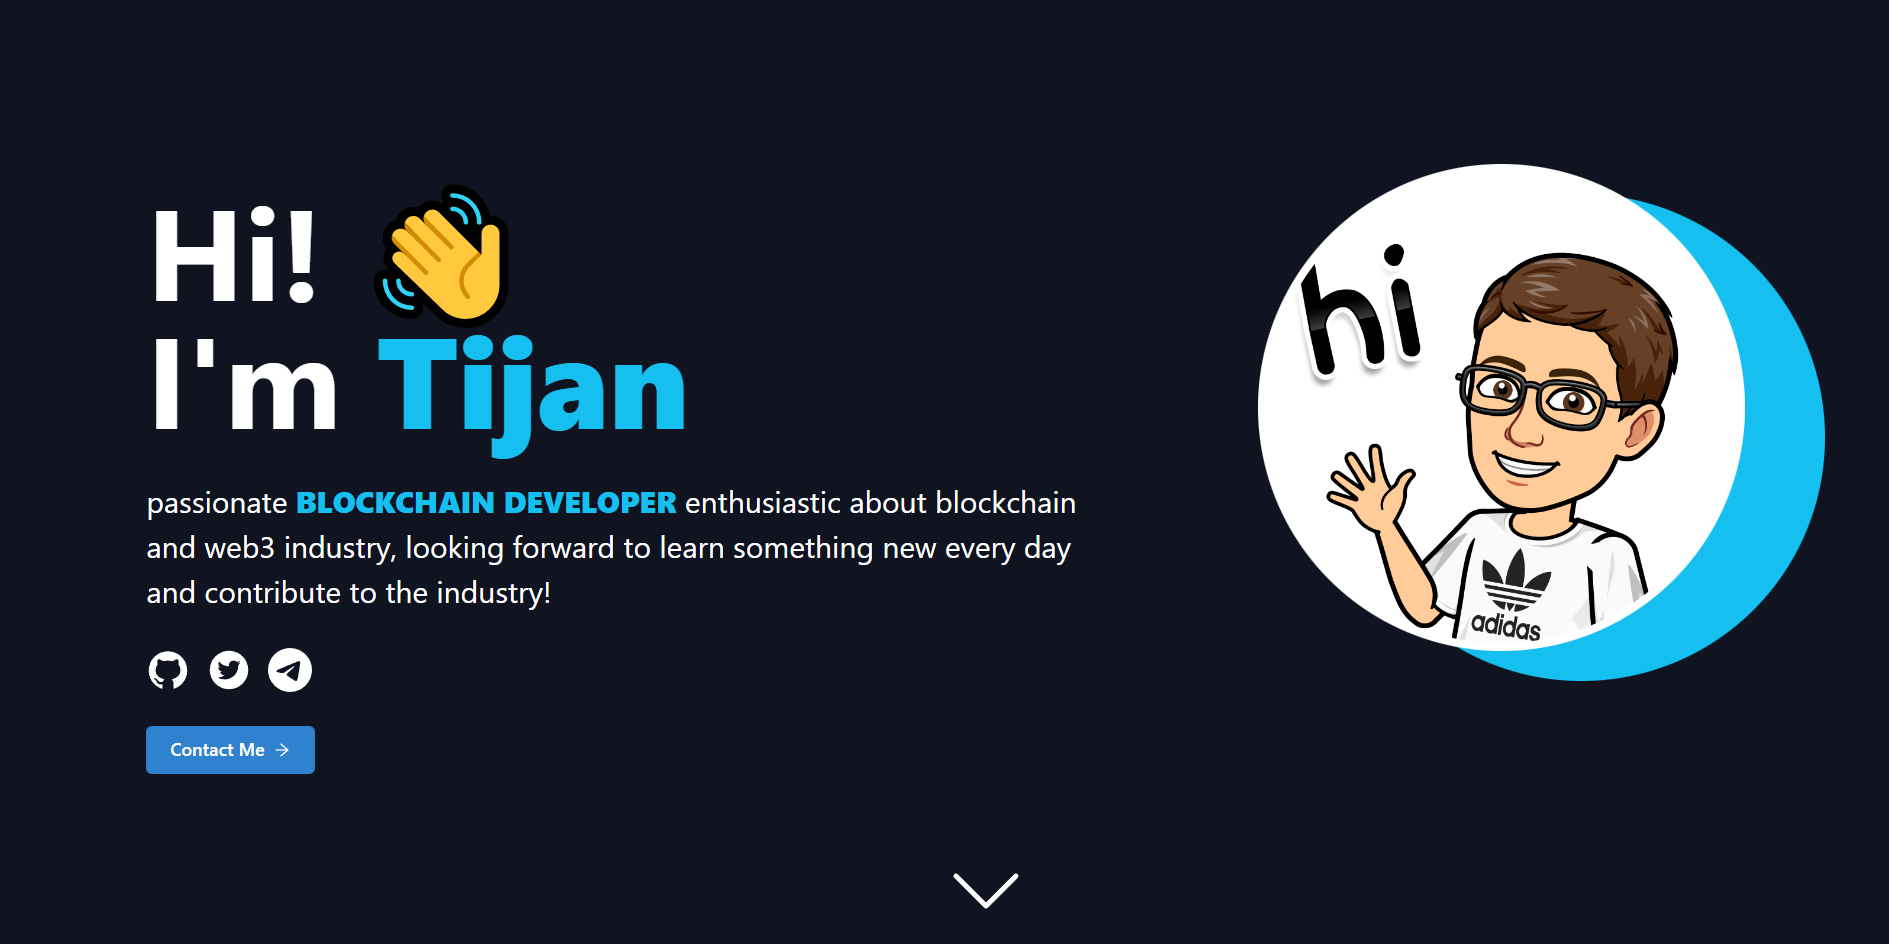
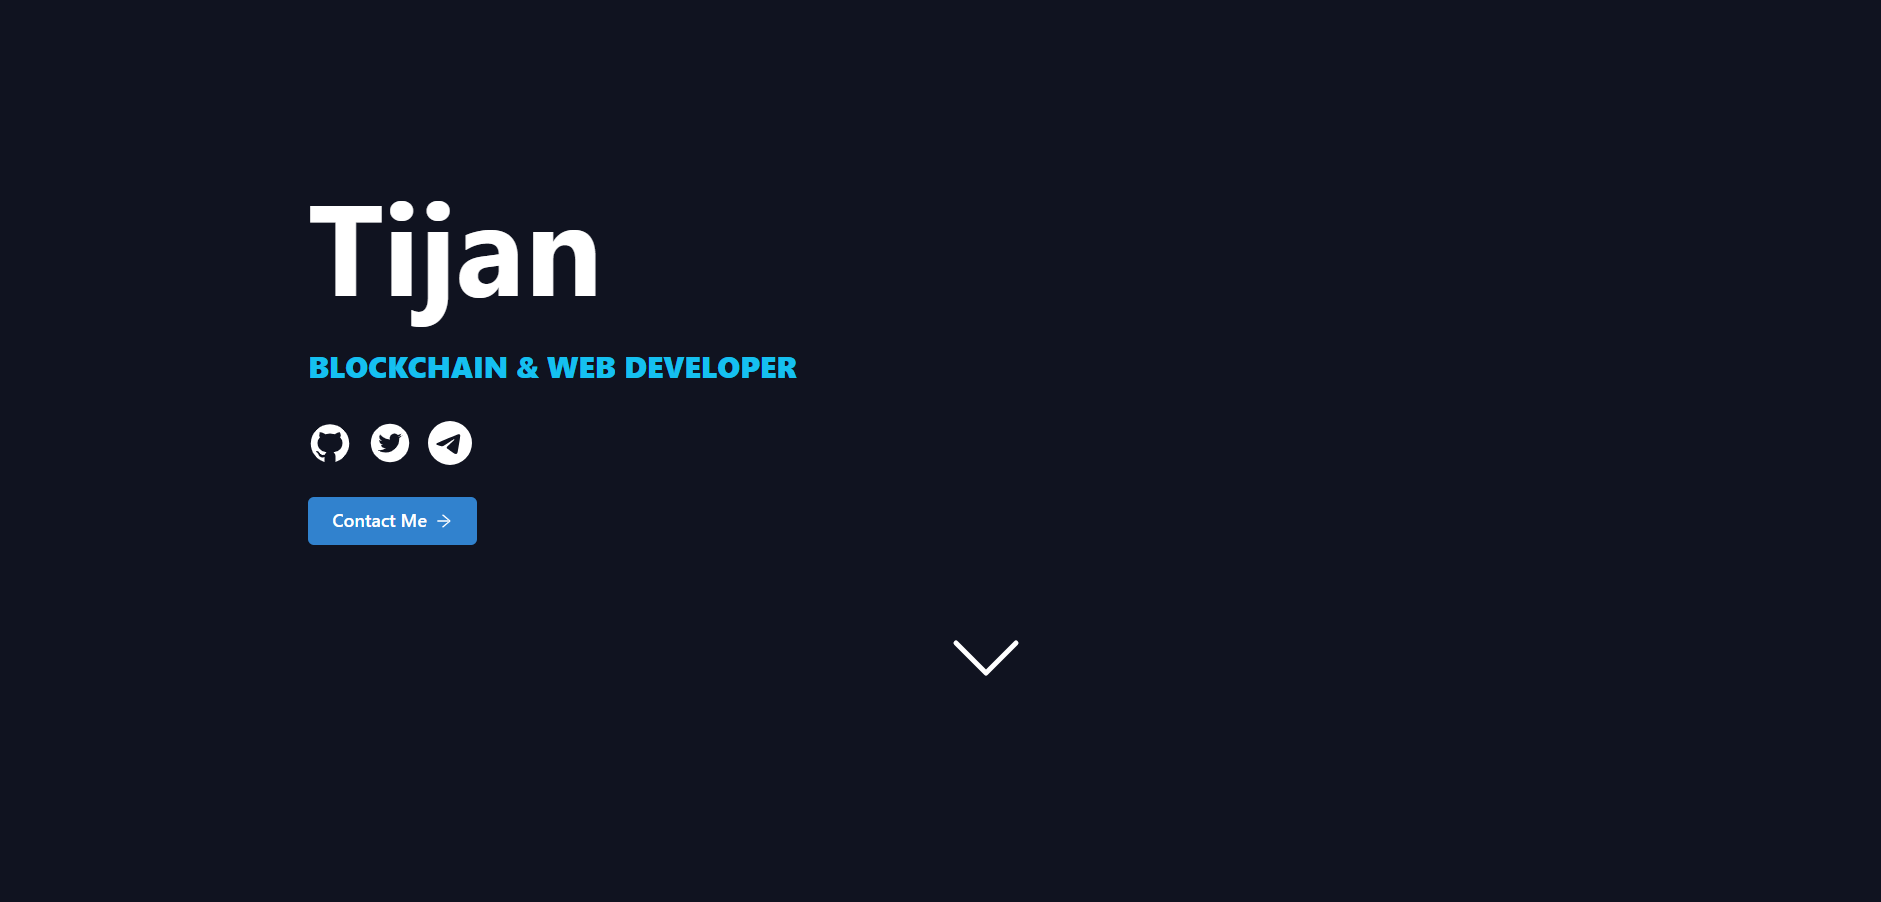
removed some things

diff --git a/src/components/about/About.tsx b/src/components/about/About.tsx
@@ -43,20 +43,18 @@ const About = () => {
 
   return(
     <>
-      <Alert />
       <div className="bg">
         <div className="about-wrapper">
           <div className="about-text">
             <div className="about-title">
               <Heading as='h1' fontSize={getFontSize()} size='4xl'>
-                Hi! 👋
-              </Heading>
-              <Heading as='h1' fontSize={getFontSize()} size='4xl'>
-                I&apos;m <span className="name">Tijan</span>
+                Tijan
               </Heading>
             </div>
             <div className="about-text-desc">
-              <Text fontSize='3xl'>skilled <span className="name">BLOCKCHAIN DEVELOPER</span> from Slovenia with +3 years of experience in blockchain development, enthusiastic about blockchain and web3 industry, constantly seeking opportunities for continuous learning and growth.</Text>
+              <Text fontSize='3xl'>
+                <span className="name">BLOCKCHAIN & WEB DEVELOPER</span>
+              </Text>
             </div>
 
             <div className="icons">
@@ -78,7 +76,6 @@ const About = () => {
             </a>
           </div>
           <div className="about-avatar">
-            <img src={avatar} className="avatar" alt="Tijan Bitmoji" />
           </div>
         </div>
         <div className="icon-wrapper">

diff --git a/src/components/contact/Contact.tsx b/src/components/contact/Contact.tsx
@@ -17,12 +17,12 @@ export type Contact = {
 }
 
 export const contacts: Contact[] = [
-  {
+  /*{
     name: "EMAIL:",
     info: "contactme@tijan.dev",
     icon: <MdOutlineEmail className="contact-icon" />,
     url: "mailto:contactme@tijan.dev",
-  },
+  },*/
   {
     name: "TWITTER:",
     info: "@0xTijan",
@@ -47,12 +47,12 @@ export const contacts: Contact[] = [
     icon: <AiFillGithub className="contact-icon" />,
     url: "https://github.com/0xTijan",
   },
-  {
+  /*{
     name: "LOCATION & ZONE:",
     info: "Slovenia, UTC+1",
     icon: <IoLocationOutline className="contact-icon" />,
     url: "https://www.timeanddate.com/time/zone/slovenia",
-  },
+  },*/
 ];
 
 const Contact = () => {
@@ -60,7 +60,7 @@ const Contact = () => {
     <div className="bg-contact">
       <div className="contact-header">
         <p className="heading">Contact Me</p>
-        <p className="text">If you have any questions or want to hire me, please contact me:</p>
+        {/*<p className="text">If you have any questions or want to hire me, please contact me:</p>*/}
       </div>
 
       <div className="contact-grid">

diff --git a/src/components/hackathons/Hackathons.tsx b/src/components/hackathons/Hackathons.tsx
@@ -10,7 +10,7 @@ const Hackathons = () => {
   return(
     <div className="bg-hackathons">
       <p className="heading">Hackathons</p>
-      <p className="text">In a little less than a year I have won awards at <b>3</b> blockchain hackathons with just a keyboard and a dream!</p>
+      <p className="text">In a little less than a year I have won awards at <b>3</b> blockchain hackathons</p>
       <div className="hackathons-grid">
         {hackathons.map((hackathon: Hackathon) => {
           return(

diff --git a/src/components/projects/config.ts b/src/components/projects/config.ts
@@ -28,7 +28,7 @@ export const projects: Project[] = [
   },
   {
     name: "Portfolio",
-    description: "Developer portfolio showing my blockchain projects, skillset and certificates.",
+    description: "Developer portfolio showing my blockchain projects.",
     image: Portfolio,
     url: "https://tijan.dev/",
     github: "https://github.com/0xTijan/portfolio",

diff --git a/src/App.tsx b/src/App.tsx
@@ -15,7 +15,7 @@ function App() {
       <Skills />
       <Hackathons />
       <Projects />
-      <Certificates />
+      {/*<Certificates />*/}
       <Contact />
       <Footer />
     </>
